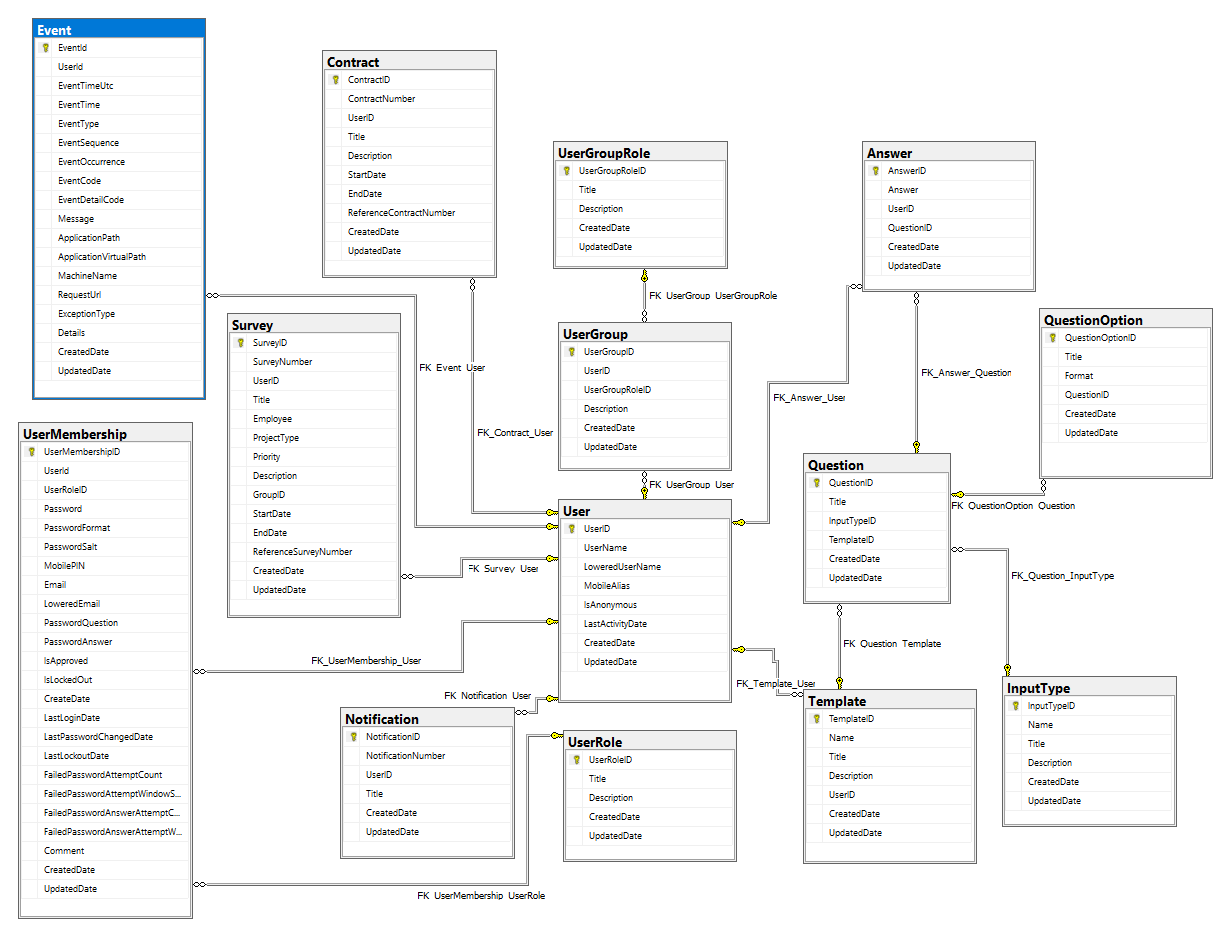
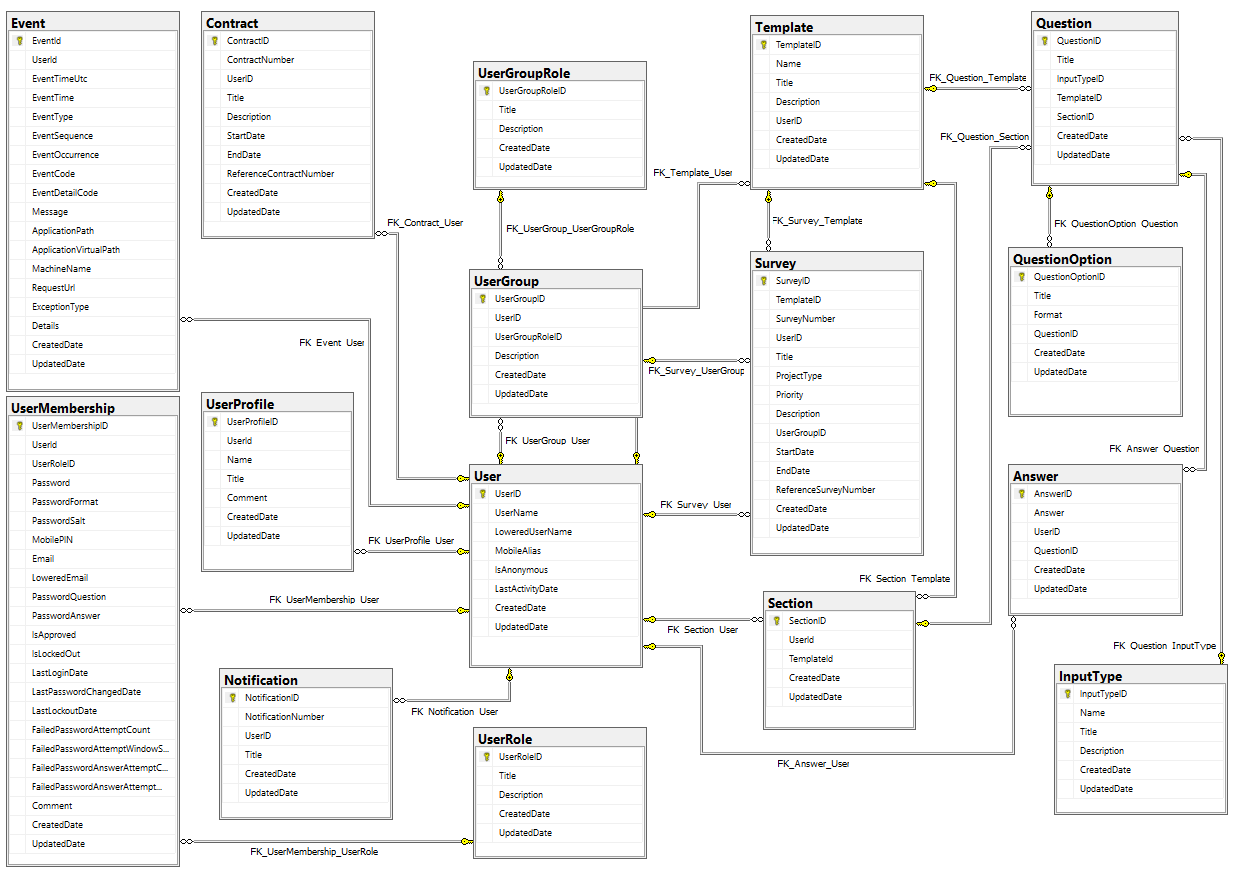
fix user repository,sql

Changed region(s): [[0.0, 0.0, 0.9894, 1.0], [0.9894, 0.7688, 1.0, 0.9226], [0.4947, 0.0615, 0.5256, 0.0923]]

diff --git a/frontend/src/App.jsx b/frontend/src/App.jsx
@@ -4,6 +4,7 @@ import LoginPage from "./views/LoginPage";
 import DashboardLayout from "./views/DashboardLayout";
 import DashboardHome from "./views/DashboardHome";
 import TemplateBuilder from "./views/TemplateBuilder";
+import RequestsStatus from "./views/RequestsStatus";
 import "./App.css";
 import { AuthContext } from "./utils/AuthProvider";
 import ProtectedRoute from "./components/ProtectedRoute";
@@ -43,6 +44,7 @@ function App() {
             <Route path="/" element={<DashboardLayout />}>
               <Route index element={<DashboardHome />} />
               <Route path="/template-builder" element={<TemplateBuilder />} />
+              <Route path="/requests-status" element={<RequestsStatus />} />
               <Route path="/*" element={<DashboardHome />} />
             </Route>
           </Route>

diff --git a/frontend/src/components/NavItem.jsx b/frontend/src/components/NavItem.jsx
@@ -2,18 +2,18 @@ import { NavLink } from "react-router";
 import styles from "./NavItem.module.css";
 
 const NavItem = ({ icon, children, ...navLinkprops }) => {
-  const title = children;
-  return (
-    <NavLink
-      className={styles.navItem}
-      role="menuitem"
-      title={title}
-      {...navLinkprops}
-    >
-      {icon}
-      <span className={styles.navText}>{children}</span>
-    </NavLink>
-  );
+    const title = children;
+    return (
+        <NavLink
+            className={styles.navItem}
+            role="menuitem"
+            title={title}
+            {...navLinkprops}
+        >
+            <span className={styles.navIcon}>{icon}</span>
+            <span className={styles.navText}>{children}</span>
+        </NavLink>
+    );
 };
 
 export default NavItem;

diff --git a/frontend/src/components/icons/NotificationSVG.jsx b/frontend/src/components/icons/NotificationSVG.jsx
@@ -1,8 +1,8 @@
-const NotificationSVG = (props) => (
+const NotificationSVG = ({ width, height, ...restProps }) => (
   <svg
     xmlns="http://www.w3.org/2000/svg"
-    width={50}
-    height={50}
+    width={width}
+    height={height}
     style={{
       shapeRendering: "geometricPrecision",
       textRendering: "geometricPrecision",
@@ -10,7 +10,7 @@ const NotificationSVG = (props) => (
       fillRule: "evenodd",
       clipRule: "evenodd",
     }}
-    {...props}
+    {...restProps}
   >
     <path
       d="M21.5 3.5c3.36-.71 5.193.624 5.5 4 5.093 2.091 8.426 5.758 10 11l1 15c2.264 1.416 3.431 3.416 3.5 6h-36c-.408-3.1.759-5.433 3.5-7 .138-6.081.804-12.081 2-18 2.16-3.162 4.993-5.495 8.5-7l2-4Z"

diff --git a/frontend/src/components/icons/HamburgerSVG.jsx b/frontend/src/components/icons/HamburgerSVG.jsx
@@ -1,0 +1,18 @@
+const HamburgerSVG = ({ width = "50", height = 50, stroke = "#000", ...restProps }) => (
+    <svg
+        xmlns="http://www.w3.org/2000/svg"
+        width={width}
+        height={height}
+        fill="none"
+        viewBox="0 0 24 24"
+        {...resProps}
+    >
+        <path
+            stroke={stroke}
+            strokeLinecap="round"
+            strokeWidth={2}
+            d="M4 18h16M4 12h16M4 6h16"
+        />
+    </svg>
+)
+export default HamburgerSVG 

diff --git a/frontend/src/components/Sidebar.jsx b/frontend/src/components/Sidebar.jsx
@@ -11,7 +11,7 @@ const Sidebar = () => {
     console.log(user);
     return (
         <div className={styles.sidebar} role="navigation">
-            <NavItem icon={<DashboardSVG />} to="/">
+            <NavItem icon={<DashboardSVG width={50} height={50} />} to="/">
                 Dashboard
             </NavItem>
             <NavItem icon={<TemplateBuilder />} to="/template-builder">Template Builder</NavItem>

diff --git a/frontend/src/components/Sidebar.module.css b/frontend/src/components/Sidebar.module.css
@@ -6,6 +6,10 @@
     flex-direction: column;
 }
 
+.sidebar a {
+    display: block;
+}
+
 @container (min-width: 768px) {
     .sidebar {
         width: clamp(150px, 15cqw, 40cqw);

diff --git a/frontend/src/components/NavItem.module.css b/frontend/src/components/NavItem.module.css
@@ -1,5 +1,6 @@
 navItem {
     color: var(--primary-color);
     text-decoration: none;
-    display: inline-block;
+    display: flex;
+    flex-direction: column;
 }

diff --git a/backend/src/main/java/com/keycoders/backend/entities/User.java b/backend/src/main/java/com/keycoders/backend/entities/User.java
@@ -13,22 +13,58 @@ public class User {
 
     private int userID;
 
-    private String name;
+    private String UserName;
 
-    private String emailAddress;
+    private String LoweredUserName;
 
-    private int userLevelID;
+    private String MobileAlias;
+
+    private Boolean IsAnonymous;
+
+    private Timestamp LastActivityDate;
 
     private Timestamp createdDate;
 
     private Timestamp updatedDate;
 
-    public String getName() {
-        return name;
+    public String getUserName() {
+        return UserName;
     }
 
-    public void setName(String name) {
-        this.name = name;
+    public void setUserName(String userName) {
+        UserName = userName;
+    }
+
+    public String getLoweredUserName() {
+        return LoweredUserName;
+    }
+
+    public void setLoweredUserName(String loweredUserName) {
+        LoweredUserName = loweredUserName;
+    }
+
+    public String getMobileAlias() {
+        return MobileAlias;
+    }
+
+    public void setMobileAlias(String mobileAlias) {
+        MobileAlias = mobileAlias;
+    }
+
+    public Boolean getIsAnonymous() {
+        return IsAnonymous;
+    }
+
+    public void setIsAnonymous(Boolean isAnonymous) {
+        IsAnonymous = isAnonymous;
+    }
+
+    public Timestamp getLastActivityDate() {
+        return LastActivityDate;
+    }
+
+    public void setLastActivityDate(Timestamp lastActivityDate) {
+        LastActivityDate = lastActivityDate;
     }
 
     public int getUserID() {
@@ -37,22 +73,6 @@ public class User {
 
     public void setUserID(int userID) {
         this.userID = userID;
-    }
-
-    public String getEmailAddress() {
-        return emailAddress;
-    }
-
-    public void setEmailAddress(String emailAddress) {
-        this.emailAddress = emailAddress;
-    }
-
-    public int getUserLevelID() {
-        return userLevelID;
-    }
-
-    public void setUserLevelID(int userLevelID) {
-        this.userLevelID = userLevelID;
     }
 
     public Timestamp getCreatedDate() {

diff --git a/backend/src/main/java/com/keycoders/backend/controller/AuthController.java b/backend/src/main/java/com/keycoders/backend/controller/AuthController.java
@@ -54,7 +54,7 @@ public class AuthController {
     @PostMapping("/login")
     public ResponseEntity<?> authenticateUser(@RequestBody Credentials credentials) throws SQLException {
         // TODO: Error Handling on blank results
-        User user = userRepository.findUserByEmail(credentials.getLogin());
+        User user = userRepository.findUserByUserName(credentials.getLogin());
         // compare passwords
         String hashedPass = passwordEncoder.encode(credentials.getPassword());
         String jwt = generateJwtToken(user);
@@ -76,7 +76,7 @@ public class AuthController {
         // java.util.Date date = new java.util.Date();
         Timestamp issueDate = new Timestamp(System.currentTimeMillis());
         Timestamp expirationDate = new Timestamp(issueDate.getTime() + this.jwtExpirationMS);
-        return Jwts.builder().subject(user.getEmailAddress())
+        return Jwts.builder().subject(user.getUserName())
                 .claim("user", user)
                 .issuedAt(issueDate)
                 .expiration(expirationDate)

diff --git a/backend/src/main/java/com/keycoders/backend/repositories/UserRepository.java b/backend/src/main/java/com/keycoders/backend/repositories/UserRepository.java
@@ -17,11 +17,13 @@ public class UserRepository {
     }
 
     // seems to be the login default.
-    public User findUserByEmail(String email) {
-        // String sql = "SELECT UserID, Name, EmailAddress, UserLevelID, CreatedDate,
-        // UpdatedDate FROM [User] WHERE EmailAddress = ?";
-        String sql = "SELECT * FROM [dbo].[User] WHERE EmailAddress = ?";
-        return jdbcTemplate.queryForObject(sql, new UserMapper(), email);
+    public User findUserByUserName(String username) {
+        String sql = "SELECT UserID, UserName, LoweredUserName, MobileAlias, IsAnonymous, LastActivityDate, CreatedDate, UpdatedDate FROM [User] WHERE UserName = ?";
+        return jdbcTemplate.queryForObject(sql, new UserMapper(), username);
     }
 
+    public <List> User findUsersByUserName(String username) {
+        String sql = "SELECT UserID, UserName, LoweredUserName, MobileAlias, IsAnonymous, LastActivityDate, CreatedDate, UpdatedDate FROM [User]";
+        return jdbcTemplate.queryForObject(sql, new UserMapper(), username);
+    }
 }

diff --git a/backend/src/main/java/com/keycoders/backend/mappers/UserMapper.java b/backend/src/main/java/com/keycoders/backend/mappers/UserMapper.java
@@ -12,13 +12,12 @@ public class UserMapper implements RowMapper<User> {
     public User mapRow(@NonNull ResultSet rs, int rowNum) throws SQLException {
         User user = new User();
 
-        // SELECT UserID, Name, EmailAddress,
-        // UserLevelID, CreatedDate, UpdatedDate
-        // FROM [User] WHERE EmailAddress = 'user1@naku.com';
         user.setUserID((rs.getInt("UserID")));
-        user.setName(rs.getString("Name"));
-        user.setEmailAddress(rs.getString("EmailAddress"));
-        user.setUserLevelID(rs.getInt("UserLevelID"));
+        user.setUserName(rs.getString("UserName"));
+        user.setLoweredUserName(rs.getString("LoweredUserName"));
+        user.setMobileAlias(rs.getString("MobileAlias"));
+        user.setIsAnonymous(rs.getBoolean("IsAnonymous"));
+        user.setLastActivityDate(rs.getTimestamp("LastActivityDate"));
         user.setCreatedDate(rs.getTimestamp("CreatedDate"));
         user.setUpdatedDate(rs.getTimestamp("UpdatedDate"));
         return user;

diff --git a/README.md b/README.md
@@ -2,6 +2,46 @@
 
 ## Nakupuna Code Quest Challenge
 
+## Installation
+
+### For Development
+
+In project root folder:
+
+```sh
+docker compose build
+docker compose up
+```
+
+
+Environment files need to be created
+
+```sh
+# ./backend/.env
+SPRING_DATASOURCE_URL="DB Connection URL String"
+SPRING_DATASOURCE_USERNAME="DB username"
+SPRING_DATASOURCE_PASSWORD="DB password"
+```
+
+TODO: Create environmental variables for the CORS allow so it can be done inside configuration instead of manually in Java. 
+
+You may also update values in the `Application.properties` file location in `./backend/src/main/resources/application.properties`
+
+Currently the application name, the jwt secret, and jwt expiration.
+
+TODO: Add all configurable variables here and then pull them in from the .env file.
+
+```sh
+spring.application.name=backend
+# spring.config.import=file:../.env[.properties],file:.env[.properties]
+jwt.secret="myverySecretKeyHereThatisDefinitelySecure12248018201230"
+jwt.expiration=86400000
+```
+
+### Production
+
+CORS configuration will need to be updated.
+
 ## Entity Relationship Diagram
 
 ![Entity Relationship Diagram](readme-assets/ERD.png)
